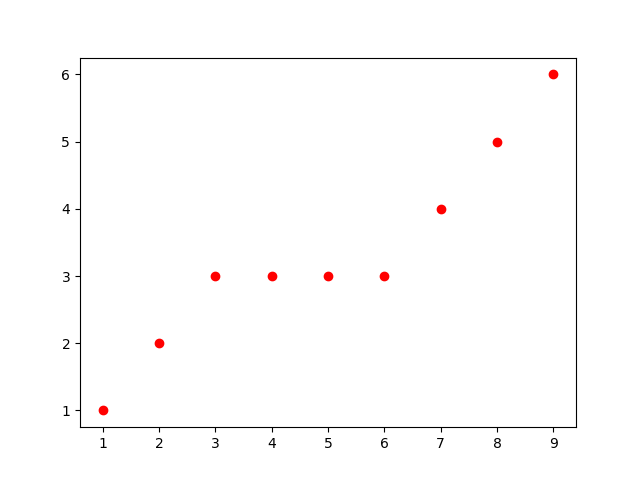
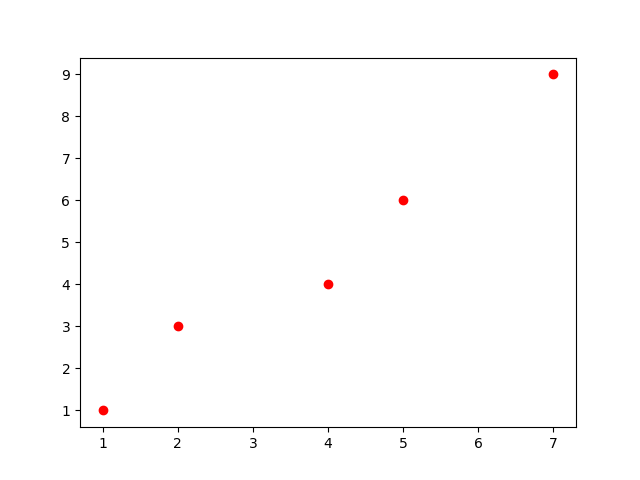
Fixed README title

diff --git a/Guide/DynamicProgramming/Educational/Segmented Least Squares/solution.py b/Guide/DynamicProgramming/Educational/Segmented Least Squares/solution.py
@@ -94,7 +94,6 @@ def segment_least_squares(points, c):
 
     m = [0] * size  # track accumulated cost
     seg_starts = [0] * size  # track start and end points of segments
-
     for end in range(0, size):  # end of segment
         min_cost = inf
 
@@ -162,7 +161,9 @@ def main():
     points = [
         [1, 1],
         [2, 3],
-        [4, 4]
+        [4, 4],
+        [5, 6],
+        [7, 9]
     ]
 
     m, seg_points = segment_least_squares(points,0)

diff --git a/Guide/DynamicProgramming/Educational/Segmented Least Squares/README.md b/Guide/DynamicProgramming/Educational/Segmented Least Squares/README.md
@@ -1,4 +1,4 @@
-# Shortest Path Tree in a Graph
+# Segmented Least Squares
 
 This problem is introduced in [Dr. Gelfond Applied Algorithms](http://redwood.cs.ttu.edu/~mgelfond/FALL-2012/slides.pdf) and is further discussed by [UMASS](https://people.cs.umass.edu/~sheldon/teaching/mhc/cs312/2013sp/Slides/Slides15%20-%20Segmented%20Least%20Squares.pdf) as well as other universities.
 
@@ -83,9 +83,11 @@ Due to the complex calculations that would be involved in a large example, this 
 
 Those three points will be:
 ```
-    [1, 1],
-    [2, 3],
-    [4, 4],
+        [1, 1],
+        [2, 3],
+        [4, 4],
+        [5, 6],
+        [7, 9]
 ```
 
 The first step in our algorithm is to find _e<sub>ij</sub>_ for each segment _p<sub>i</sub>,...p<sub>j</sub>_ in _S_
@@ -94,11 +96,44 @@ Recall that to do this we will have to calculate:
 ![Sum of Squared Error Line](./assets/sse.png) using ![Sum of Squared Error Line](./assets/a_and_b.png)
 
 
-For the segment p<sub>0</sub>,...p<sub>0</sub>, _e<sub>00</sub>_ = 0
+For the segment p<sub>0</sub>,...p<sub>1</sub>, _e<sub>01</sub>_ = 0.0
+![Segment 0...1](./assets/seg_01.png)
 
-For the segment p<sub>0</sub>,...p<sub>1</sub>:
-For the segment p<sub>0</sub>,...p<sub>2</sub>:
-For the segment p<sub>1</sub>,...p<sub>3</sub>:
+
+For the segment p<sub>0</sub>,...p<sub>2</sub>, _e<sub>02</sub>_ = 0.643
+![Segment 0...2](./assets/seg_02.png)
+
+For the segment p<sub>1</sub>,...p<sub>2</sub>, _e<sub>12</sub>_ = 0.0
+![Segment 1...2](./assets/seg_12.png)
+
+For the segment p<sub>0</sub>,...p<sub>3</sub>, _e<sub>03</sub>_ = 0.9
+![Segment 0...3](./assets/seg_03.png)
+
+For the segment p<sub>1</sub>,...p<sub>3</sub>, _e<sub>13</sub>_ = 0.643
+![Segment 1...3](./assets/seg_13.png)
+
+For the segment p<sub>2</sub>,...p<sub>3</sub>, _e<sub>23</sub>_ = 0.0
+![Segment 2...3](./assets/seg_23.png)
+
+For the segment p<sub>0</sub>,...p<sub>4</sub>, _e<sub>04</sub>_ = 1.3246
+![Segment 0...4](./assets/seg_04.png)
+
+For the segment p<sub>1</sub>,...p<sub>4</sub>, _e<sub>14</sub>_ = 1.3077
+![Segment 1...4](./assets/seg_14.png)
+
+For the segment p<sub>2</sub>,...p<sub>4</sub>, _e<sub>24</sub>_ = 0.071
+![Segment 2...4](./assets/seg_24.png)
+
+For the segment p<sub>3</sub>,...p<sub>4</sub>, _e<sub>34</sub>_ = 0.0
+![Segment 3...4](./assets/seg_34.png)
+
+
+
+
+
+
+
+
 
 
 
